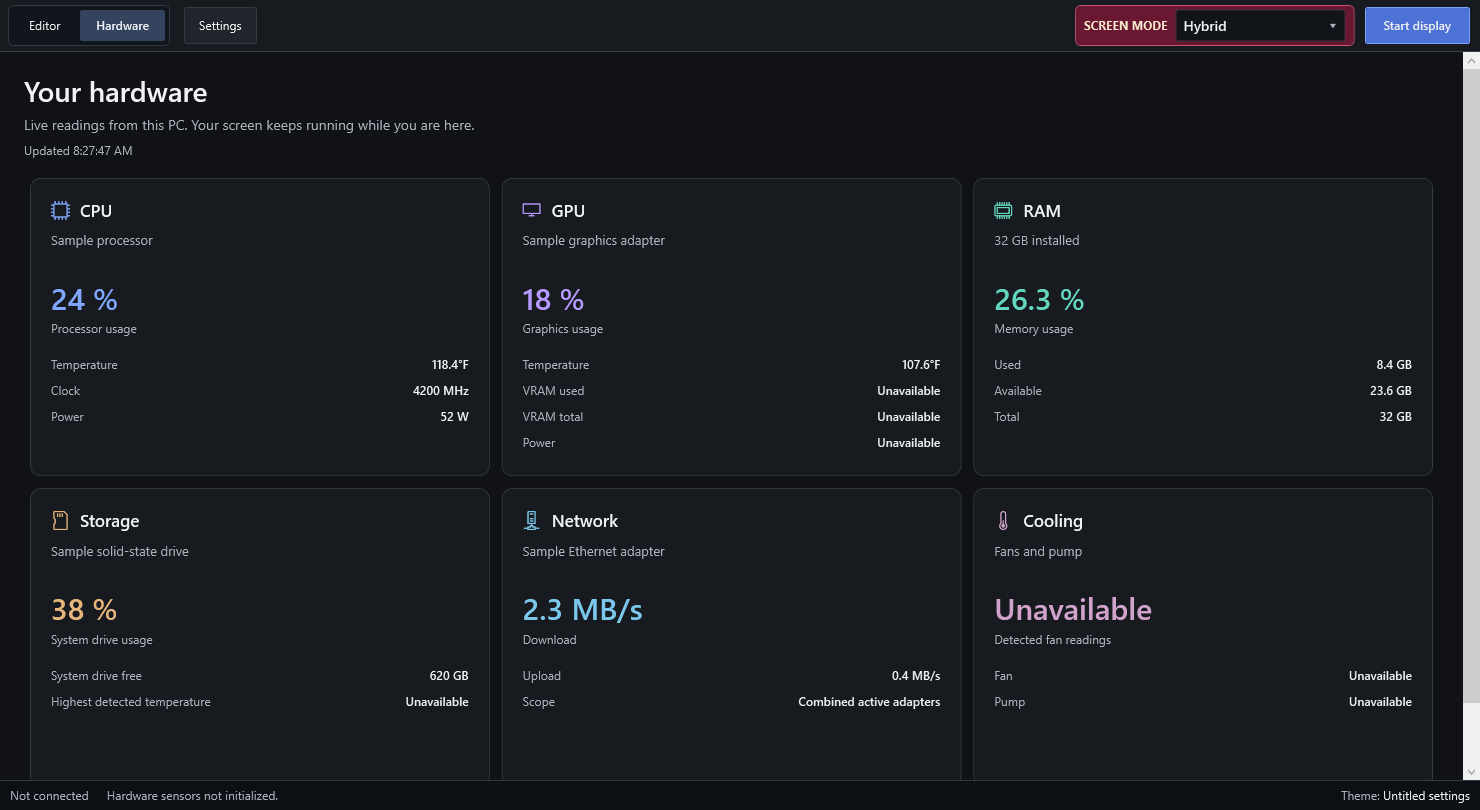
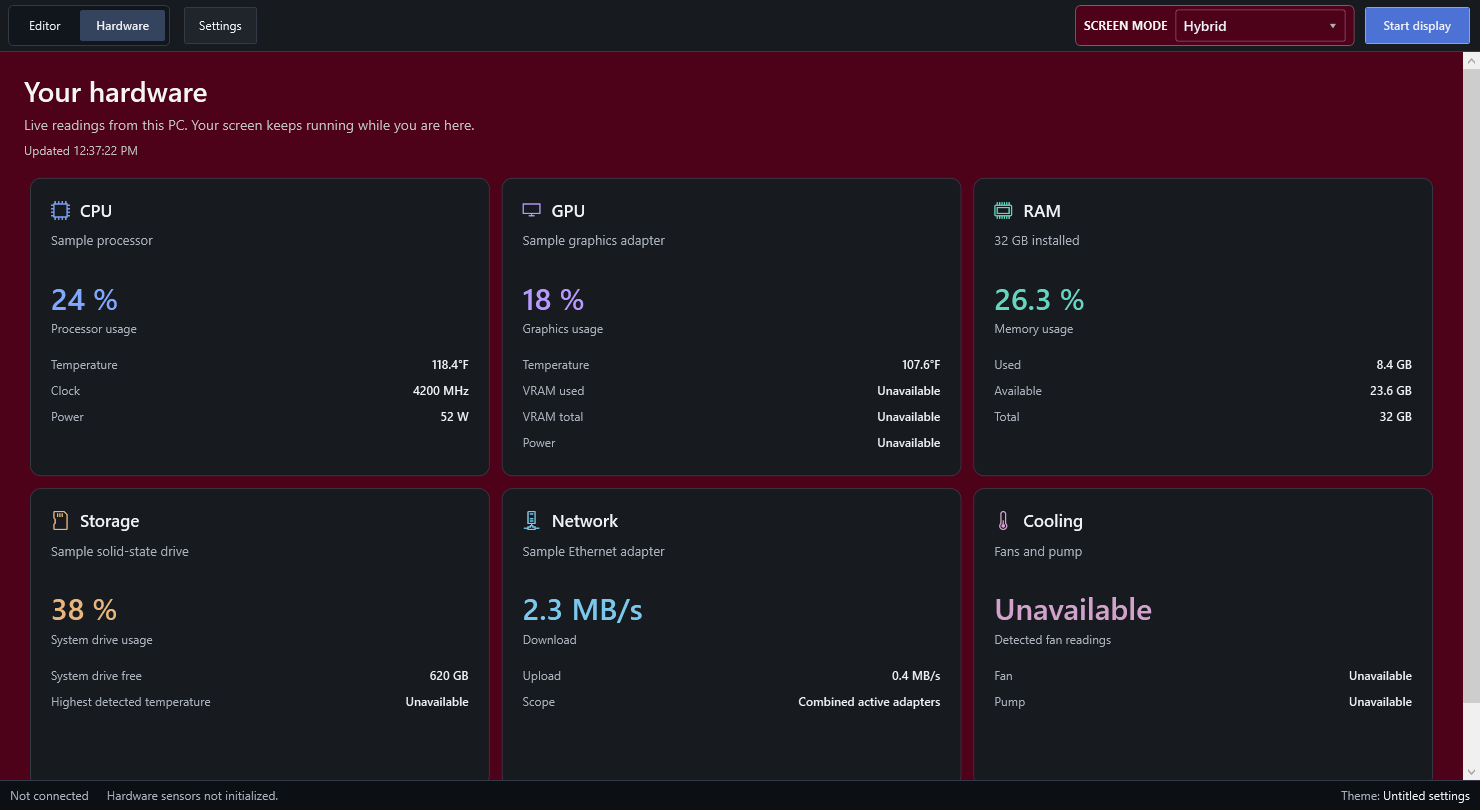
docs: refresh burgundy UI screenshots and show live-data settings [skip ci]

Changed region(s): [[0.0, 0.0, 0.9946, 0.9877]]

diff --git a/README.md b/README.md
@@ -42,6 +42,12 @@ Each mode has a **Themes** panel with visible **Load** and **Save** buttons. The
 
 ![Dark theme-actions menu with keyboard shortcuts and clearly disabled actions for built-in themes](docs/images/theme-actions.png)
 
+### Settings window
+
+Open **Settings** from the top bar to manage screen connection, runtime, sensor access and editor preferences. Hardware and Settings pages use a burgundy `#4D0219` background with white and silver text. **Use live sensor data** stays checked because live readings are always enabled.
+
+![Settings window with burgundy background, readable silver and white text, and the checked live-sensor indicator](docs/images/settings-window.png)
+
 ## Editor and Hardware pages
 
 Use **Editor** to build your screen and **Hardware** to view PC hardware names and live CPU, GPU, memory, storage, network and cooling readings. Hardware is an app page; your selected Info Screen, Photo Frame or Hybrid mode and physical display output continue unchanged. Unavailable sensors are labelled clearly.
